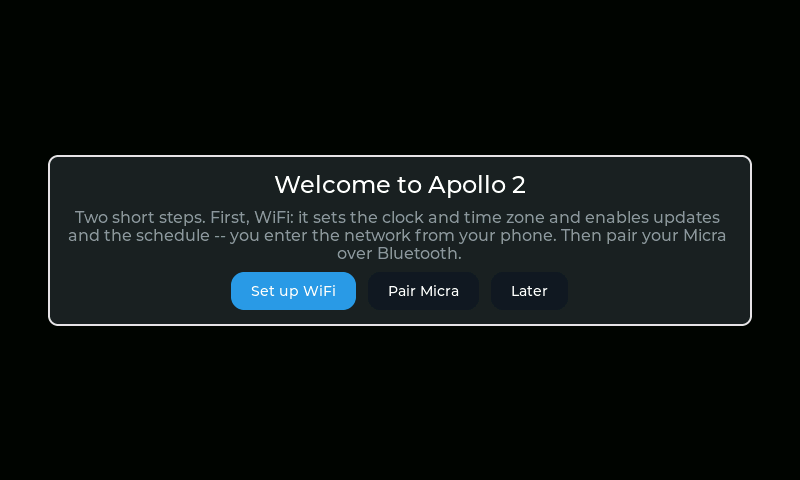
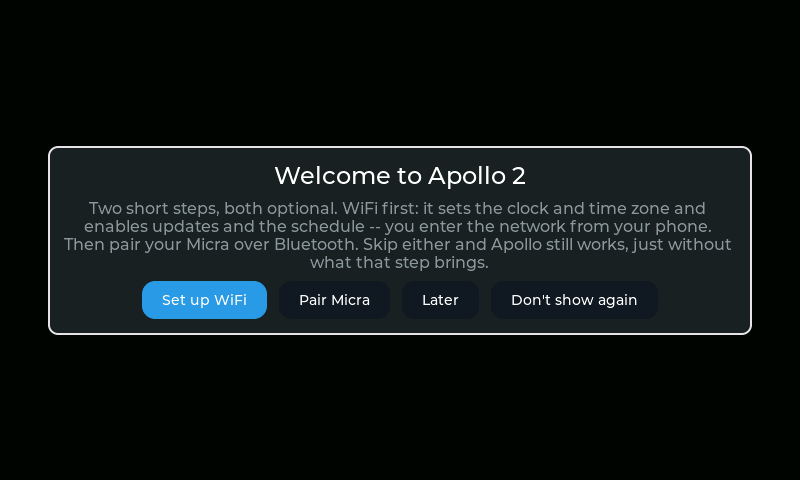
welcome: every boot until something is set up; opt out explicitly
Bench finding (owner, 2026-09-22): any button persisted the dismissal, so a
power cycle after tapping Set up WiFi lost the welcome for good on a unit
with nothing configured. Now it returns at each boot while no machine and no
WiFi are saved; Later is this boot only, Don't show again is the one
persisted choice (new key name wlcmoff -- the old one never shipped), and
configuring either thing ends it. The text says both steps are optional and
what skipping costs.

Changed region(s): [[0.0625, 0.2812, 0.9375, 0.7188]]

diff --git a/src/ui/app.cpp b/src/ui/app.cpp
@@ -1463,8 +1463,8 @@ void App::refresh() {
     update_temp_panels(snap);
     schedule_tick(snap);
 
-    // First boot: nothing configured and never dismissed -> the welcome,
-    // once, on the first refresh (build() is too early for a modal).
+    // Fresh unit (nothing configured, not opted out) -> the welcome, on the
+    // first refresh of every boot (build() is too early for a modal).
     if (!welcome_checked_) {
       welcome_checked_ = true;
       const bool fresh = snap.link == core::Link::Unconfigured && provisioner_ != nullptr &&
@@ -4604,24 +4604,28 @@ void App::schedule_slider_released() {
   sync_schedule_controls();
 }
 
-// The first thing a new unit shows. WiFi goes first on purpose: it sets the
-// clock (and the time zone, from the same phone page), and updates and the
-// schedule need it. Pairing the Micra is the other step; "Later" just gets
-// out of the way. Any choice marks it seen -- it never nags.
+// The first thing a new unit shows, on EVERY boot while nothing is set up
+// (no machine, no WiFi): a power cycle mid-setup must not lose it. WiFi goes
+// first on purpose: it sets the clock (and the time zone, from the same
+// phone page), and updates and the schedule need it. Every step is optional
+// and the text says what skipping costs. "Later" is this boot only; only
+// "Don't show again" persists, and configuring either thing ends it anyway.
 void App::open_welcome_modal() {
   lv_obj_t* card = open_modal(
       "Welcome to Apollo 2",
-      "Two short steps. First, WiFi: it sets the clock and time zone and "
-      "enables updates and the schedule -- you enter the network from your "
-      "phone. Then pair your Micra over Bluetooth.");
+      "Two short steps, both optional. WiFi first: it sets the clock and time "
+      "zone and enables updates and the schedule -- you enter the network from "
+      "your phone. Then pair your Micra over Bluetooth. Skip either and Apollo "
+      "still works, just without what that step brings.");
   lv_obj_t* row = modal_button_row(card);
   modal_button(row, "Set up WiFi", ui::theme::accent(), on_welcome_choice<0>, this);
   modal_button(row, "Pair Micra", ui::theme::rail(), on_welcome_choice<1>, this);
   modal_button(row, "Later", ui::theme::rail(), on_welcome_choice<2>, this);
+  modal_button(row, "Don't show again", ui::theme::rail(), on_welcome_choice<3>, this);
 }
 
 void App::welcome_choose(int choice) {
-  if (provisioner_ != nullptr) provisioner_->set_welcome_seen(true);
+  if (choice == 3 && provisioner_ != nullptr) provisioner_->set_welcome_seen(true);
   close_modal();
   if (choice == 0) {
     start_wifi_setup();  // the portal + its QR modal

diff --git a/include/ui/app.h b/include/ui/app.h
@@ -150,11 +150,11 @@ class App {
   void schedule_slider_released();         // ...and persist on release
   void schedule_warmup_adjust(int dir);    // warm-up minutes [-]/[+]
   void schedule_copy_times();              // "Copy times to" [Copy]: edited day -> target
-  // First boot: "Welcome" with the setup order (WiFi + time zone first, then
-  // the Micra). Shown once by refresh() on a unit with nothing configured;
-  // also a sim pose.
+  // Fresh unit: "Welcome" with the setup order (WiFi + time zone first, then
+  // the Micra). refresh() shows it each boot while nothing is configured and
+  // the user hasn't opted out; also a sim pose.
   void open_welcome_modal();
-  void welcome_choose(int choice);         // 0 = Set up WiFi, 1 = Pair Micra, 2 = Later
+  void welcome_choose(int choice);         // 0 Set up WiFi, 1 Pair Micra, 2 Later (this boot), 3 never again
   void open_schedule_warning_modal();      // "turn off the cloud app's schedule" notice
   void dismiss_schedule_warning(bool forever);
   void confirm_restore();                // modal "Restore"

diff --git a/include/core/provisioner.h b/include/core/provisioner.h
@@ -47,9 +47,10 @@ class IProvisioner {
   virtual bool auto_connect() const = 0;
   virtual void set_auto_connect(bool on) = 0;
 
-  // First-boot welcome screen: shown once on a unit with no machine and no
-  // WiFi saved, until dismissed (persisted). A restored backup carries the
-  // saved machine/WiFi along, so a replacement unit never sees it.
+  // Welcome screen opt-out ("Don't show again", persisted). The screen shows
+  // on every boot while no machine and no WiFi are saved; configuring either
+  // ends it, and a restored backup carries them along, so a replacement unit
+  // never sees it.
   virtual bool welcome_seen() const = 0;
   virtual void set_welcome_seen(bool on) = 0;
 

diff --git a/include/platform_esp32/config.h b/include/platform_esp32/config.h
@@ -51,7 +51,7 @@ class Config {
   void set_review_hold_s(int seconds);
   int detect_lead_in_s() const;        // detect-mode preinfusion lead-in seconds (default 3)
   void set_detect_lead_in_s(int seconds);
-  bool welcome_seen() const;           // first-boot welcome screen dismissed (default false)
+  bool welcome_seen() const;           // welcome screen opted out ("Don't show again"; default false)
   void set_welcome_seen(bool on);
   bool auto_connect() const;           // connect to the saved Micra at boot (default true)
   void set_auto_connect(bool on);

diff --git a/src/platform_esp32/config.cpp b/src/platform_esp32/config.cpp
@@ -93,7 +93,7 @@ constexpr char kSchedWarnKey[] = "schwarn";    // cloud-app warning: don't show 
 constexpr char kSchedDailyKey[] = "schall";    // the "same every day" window
 // "schd0".."schd6" = Monday..Sunday, built in schedule_day_key().
 constexpr char kSchedDayPrefix[] = "schd";
-constexpr char kWelcomeKey[] = "welcome";  // first-boot welcome screen dismissed
+constexpr char kWelcomeKey[] = "wlcmoff";  // welcome screen: "Don't show again"
 }  // namespace
 
 namespace platform {

diff --git a/CHANGELOG.md b/CHANGELOG.md
@@ -20,10 +20,11 @@ maps — plain ASCII plus `— – → … × ' "` — or they render as empty b
   August 2026 carry v3 silicon that needs its own image; both are now built and
   published. The web flasher's Detect reads the chip revision off a running
   device and picks the right one; on a blank board choose it on the card.
-- **Welcome screen on first boot.** A new unit suggests WiFi first, then
-  pairing the Micra, with a button for each and Later to skip. The WiFi setup
-  page on your phone now offers the time zone too. The Home button for an
-  unpaired machine reads Pair Micra.
+- **Welcome screen on a new unit.** Until something is set up, each boot
+  suggests WiFi first, then pairing the Micra, with a button for each; both
+  are optional (Later, or Don't show again). The WiFi setup page on your phone
+  now offers the time zone too. The Home button for an unpaired machine reads
+  Pair Micra.
 
 ## v0.14.2
 

diff --git a/MANUAL.md b/MANUAL.md
@@ -82,8 +82,12 @@ Stats
 suggests the order: **Set up WiFi** first (it starts the phone setup page,
 where you enter the network and, optionally, your time zone — that sets the
 clock and enables updates and the schedule), then **Pair Micra** (Settings →
-Micra → Bluetooth). **Later** just closes it; the same steps are always
-reachable from Settings, and the screen never comes back once dismissed.
+Micra → Bluetooth). Both steps are optional: skip WiFi and Apollo still works,
+without automatic time, updates and the schedule. **Later** closes it until
+the next power‑up; it keeps coming back at boot while nothing is set up, so a
+power cycle mid‑setup loses nothing. **Don't show again** stops it for good,
+and setting up either WiFi or the Micra stops it on its own. Every step stays
+reachable from Settings.
 
   <img src="docs/img/manual/welcome-modal.png" width="70%" alt="The first-boot welcome">
 

diff --git a/README.md b/README.md
@@ -102,8 +102,9 @@ are full images, so flashing one with `esptool` *does* clear saved settings.
 
 On first boot a welcome screen suggests the order: **Set up WiFi** first
 (network and time zone from your phone; that sets the clock and enables
-updates), then **Pair Micra**. Tap **Later** to skip it — every step is in
-Settings too.
+updates), then **Pair Micra**. Both are optional — **Later** skips it for now
+(it returns at the next power‑up until something is set up), **Don't show
+again** for good; every step is in Settings too.
 
 After the first flash Apollo updates itself over WiFi: it checks for new
 firmware, shows what changed, and installs on a tap. Tick **Include
